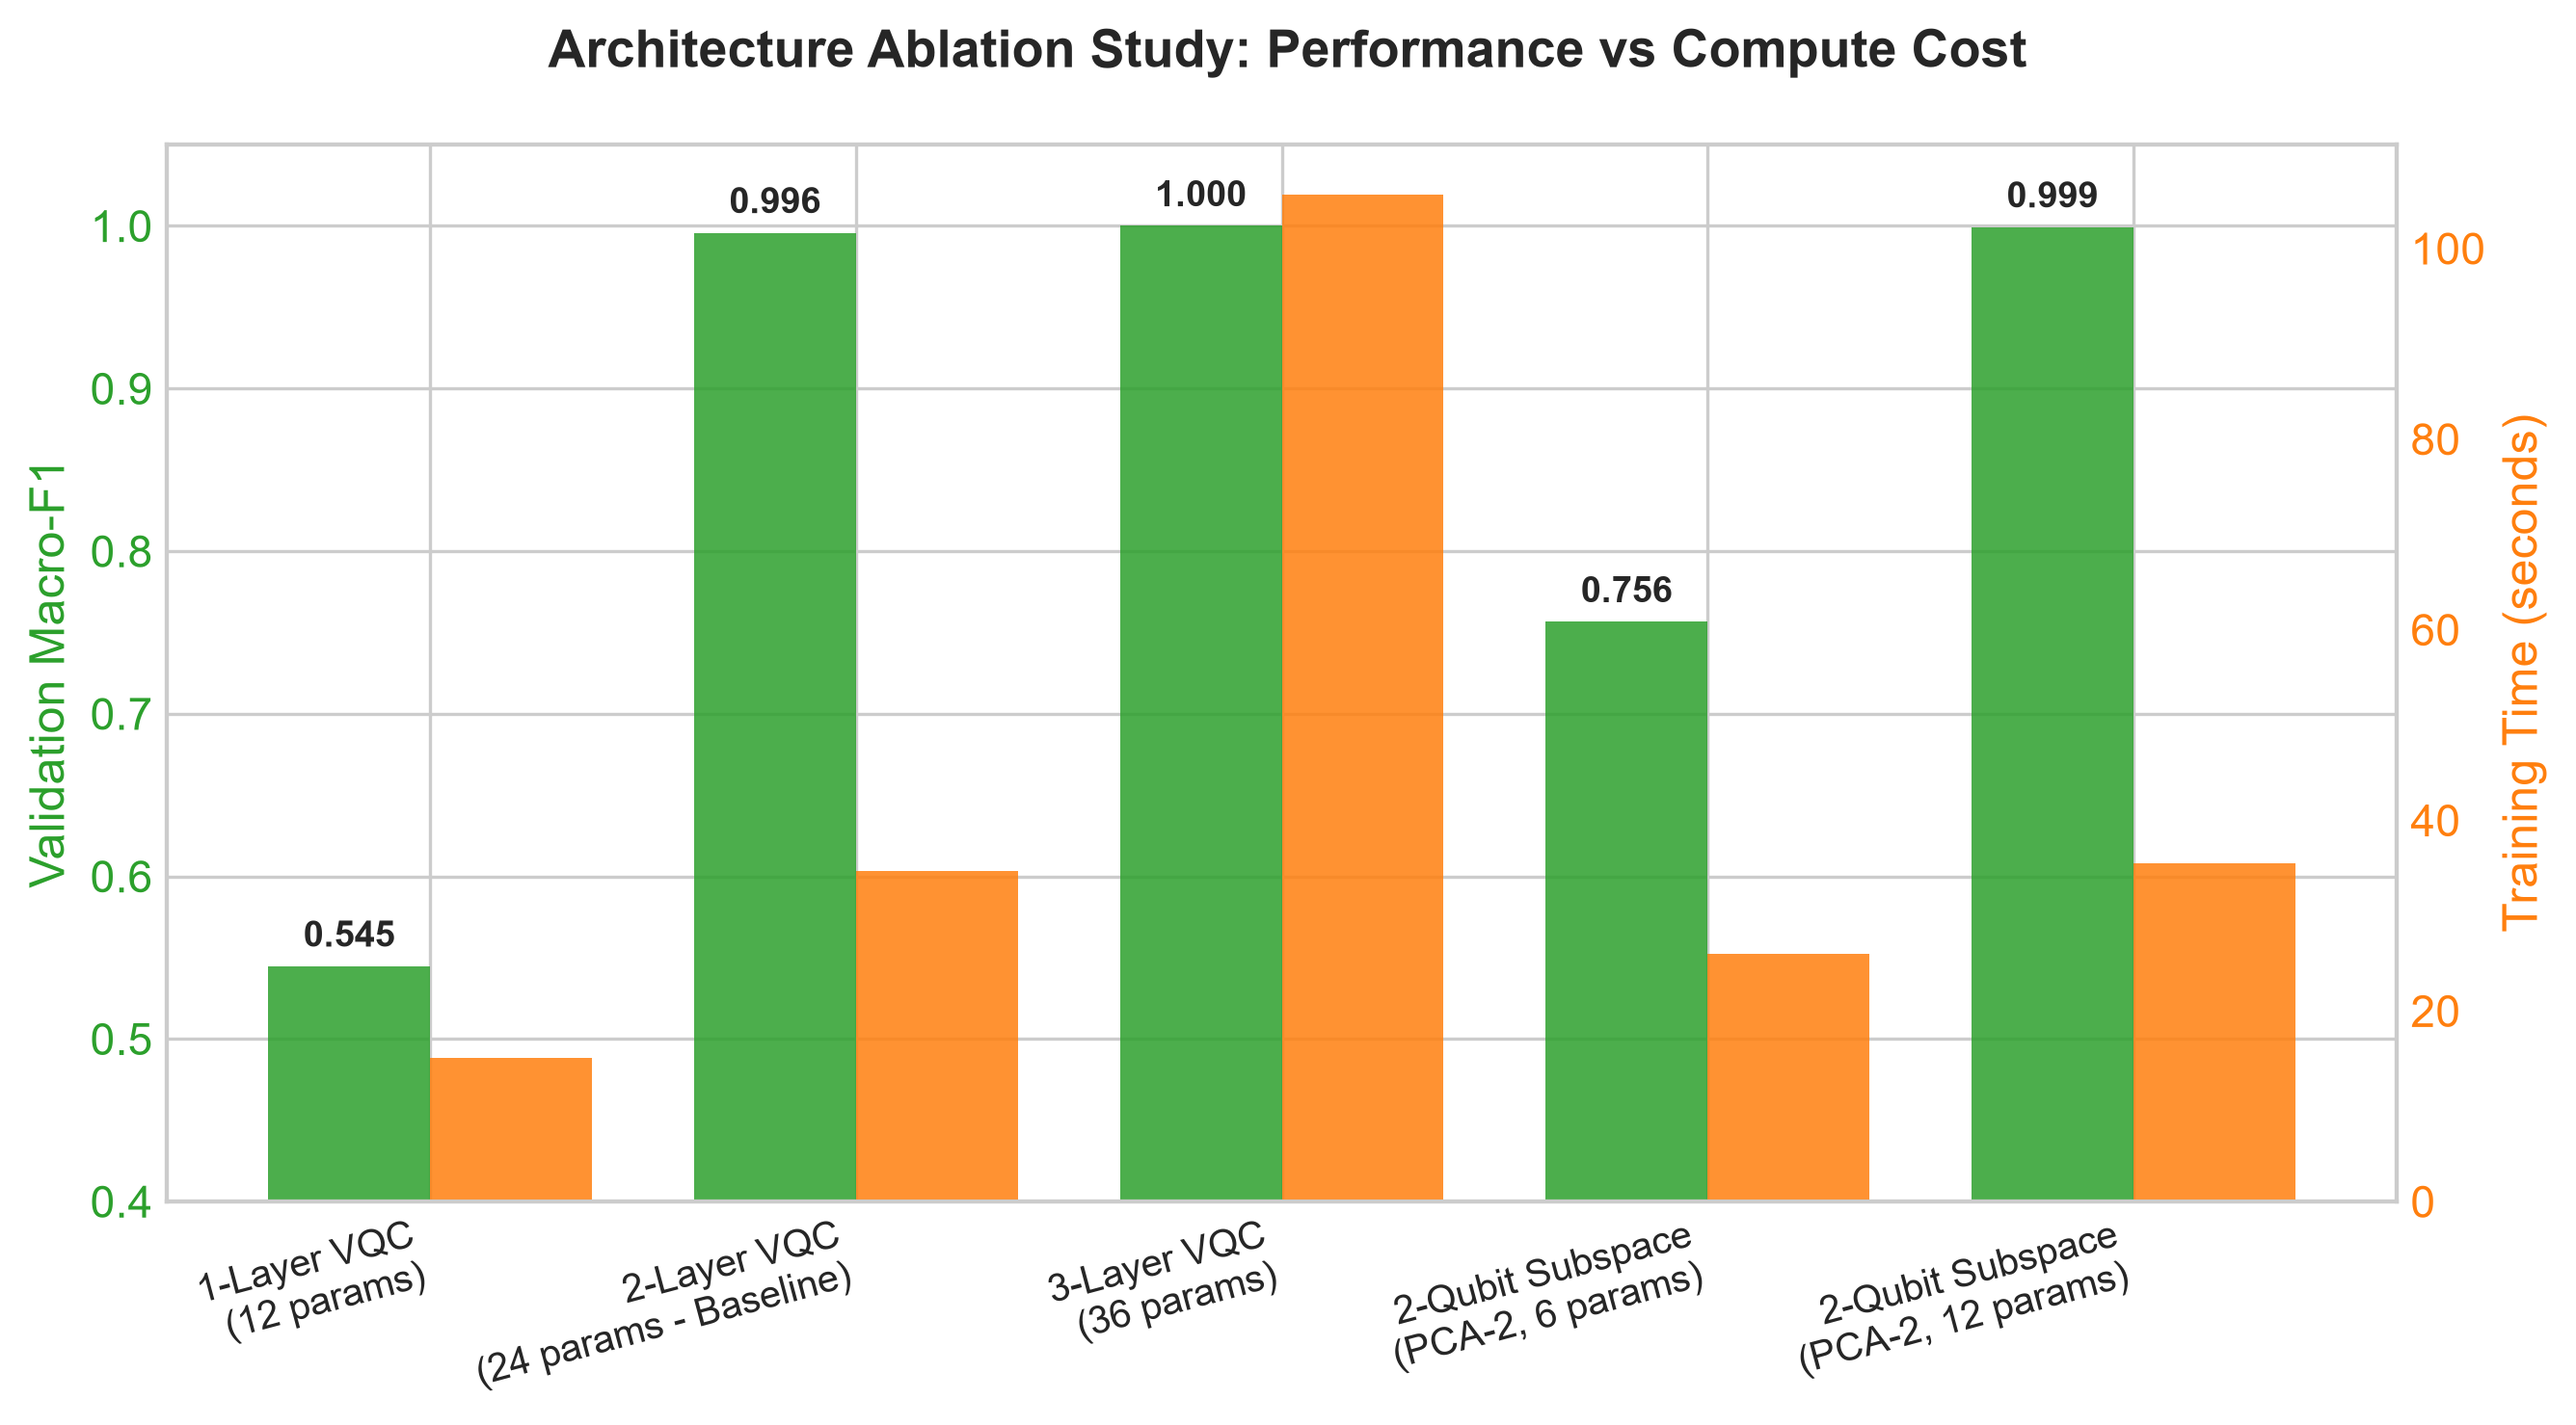
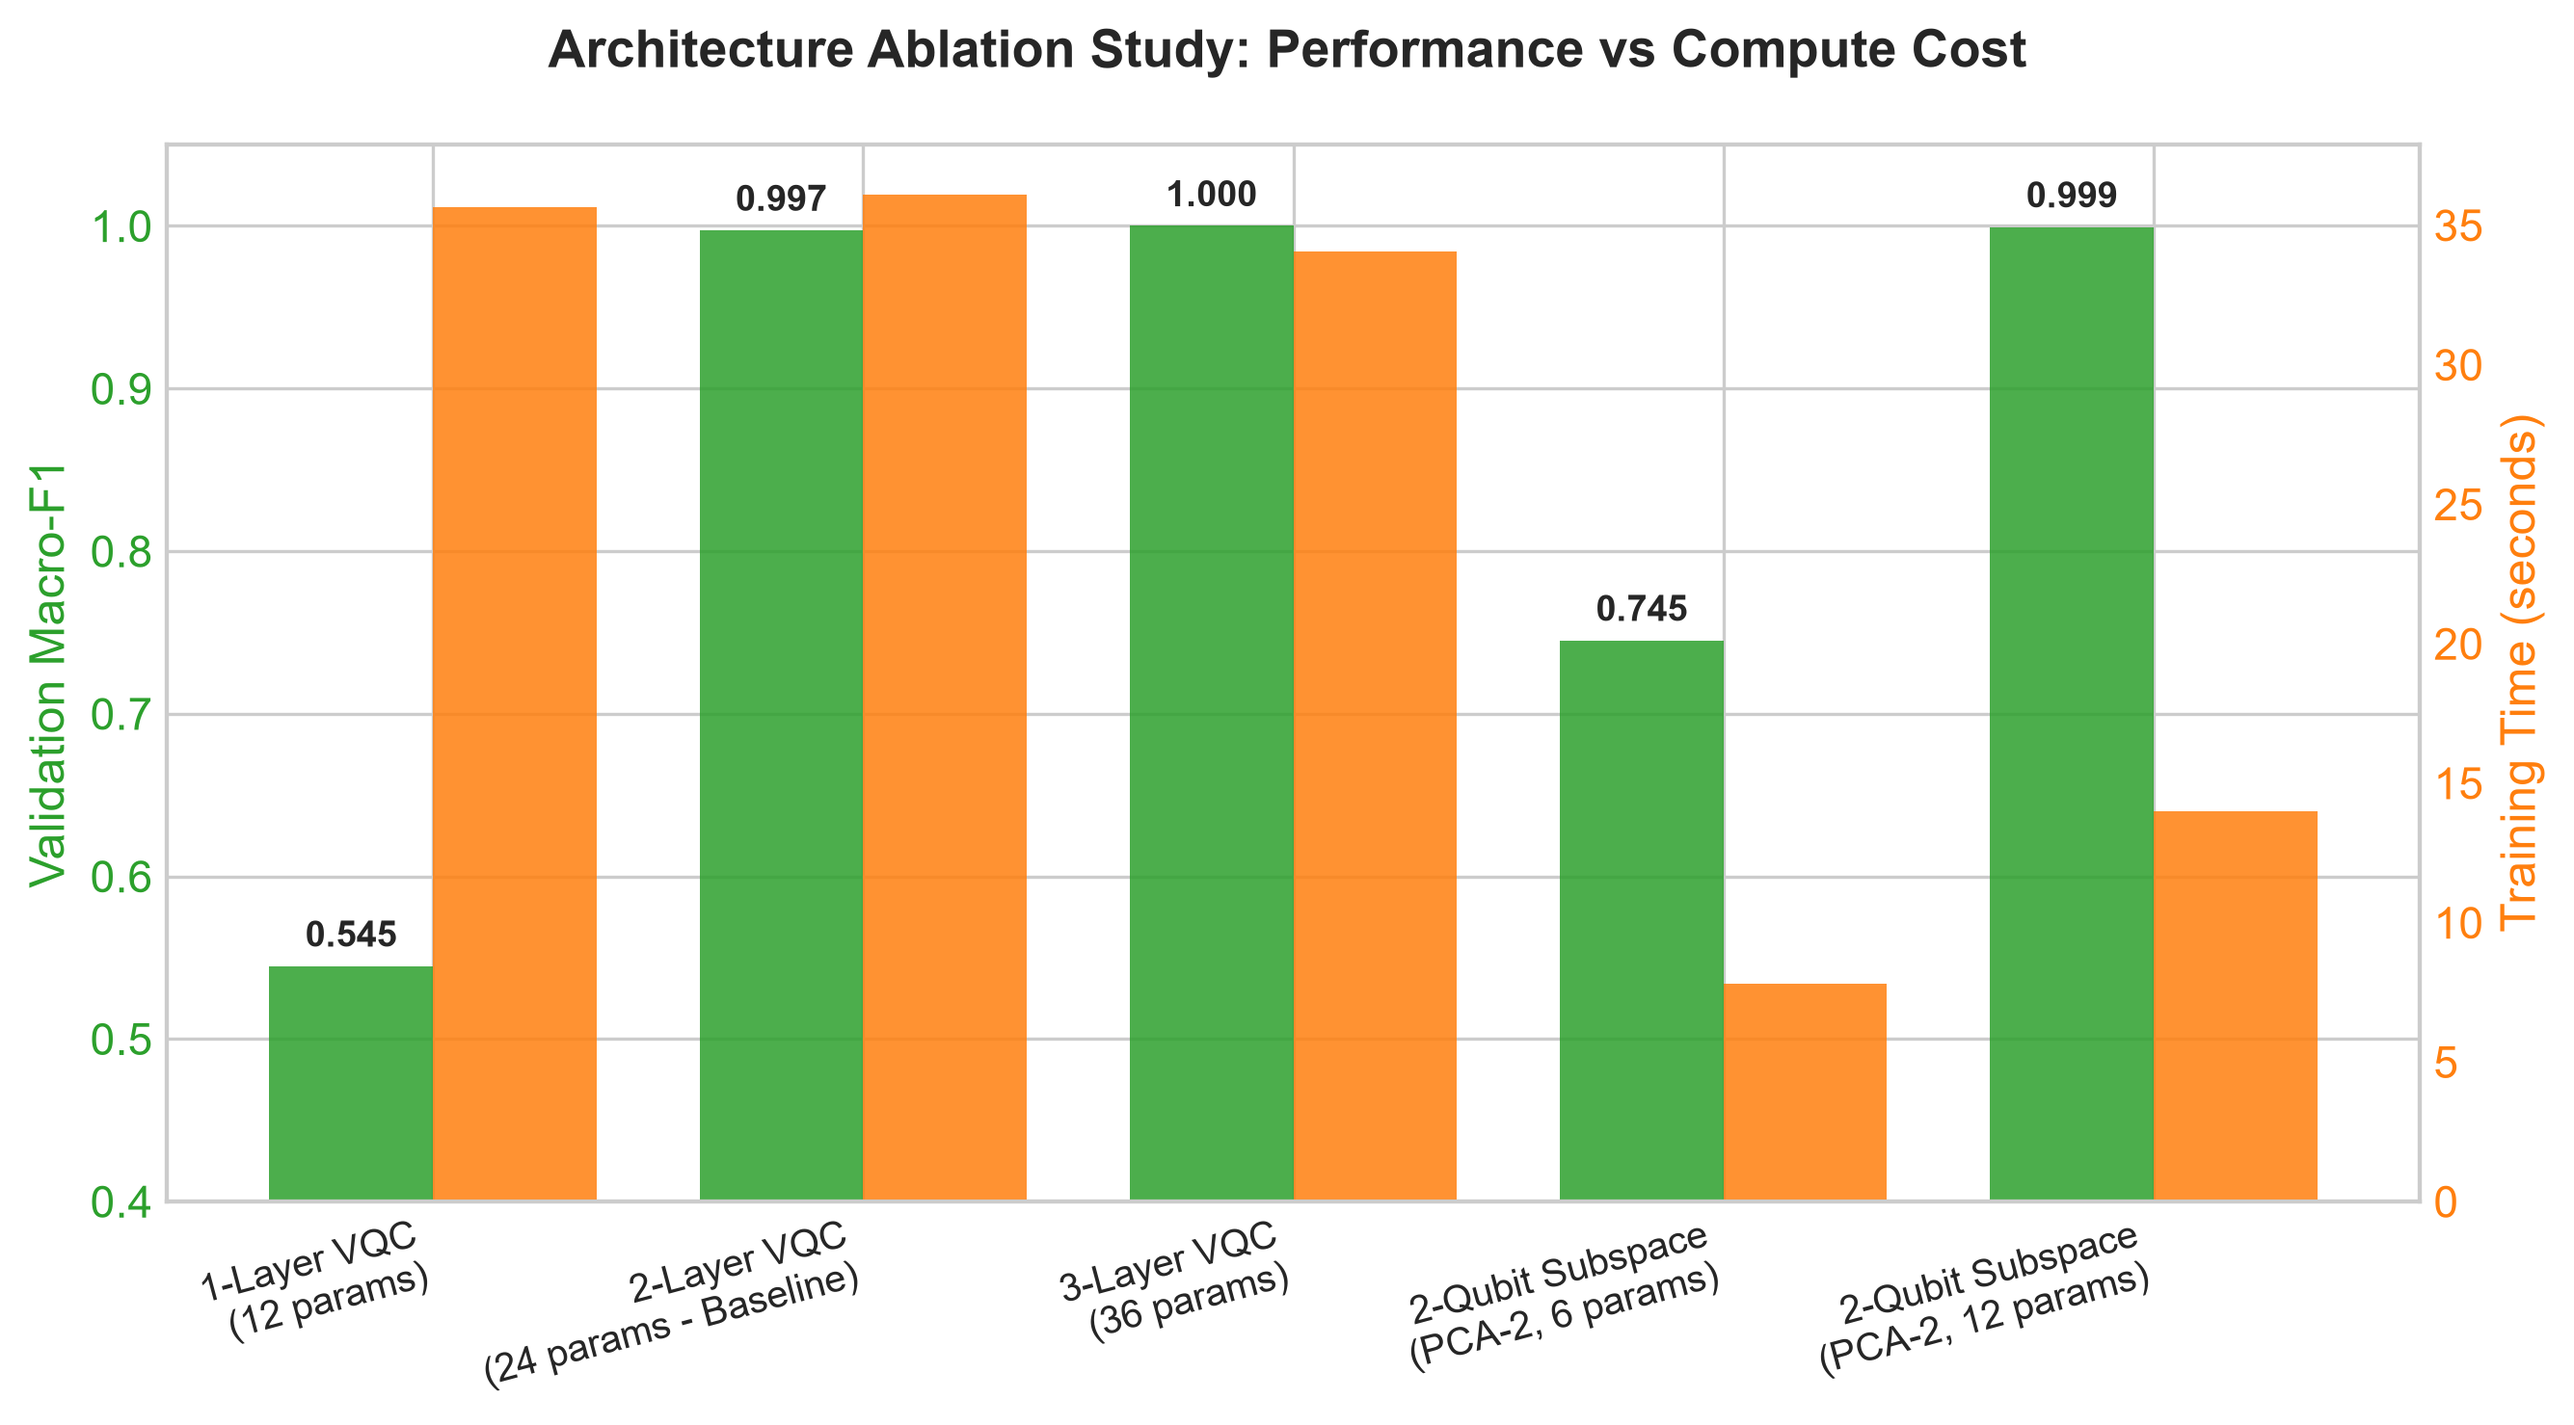
Sync notebook, metrics and report; fix Task B rationale

diff --git a/dashboard/app.py b/dashboard/app.py
@@ -1,0 +1,150 @@
+from pathlib import Path
+import json
+import pandas as pd
+import plotly.express as px
+import streamlit as st
+
+# Run this app from the NEXUS_OPS_PS_Q1 project root.
+ROOT = Path(__file__).resolve().parents[1]
+METRICS_DIR = ROOT / "outputs" / "metrics"
+PREDICTIONS = ROOT / "outputs" / "predictions" / "predictions_q1.csv"
+RESULTS = ROOT / "reports" / "results.md"
+
+st.set_page_config(page_title="NEXUS-OPS | ECG Performance", page_icon="🫀", layout="wide")
+st.title("🫀 NEXUS-OPS | ECG Model Performance")
+st.caption("Qiskit Fall Fest 2026 · QML · PS-Q1: Normal vs Arrhythmia")
+
+with st.sidebar:
+    st.header("Controls")
+    st.caption("Reads saved project artifacts; does not retrain models.")
+    if st.button("Refresh dashboard"):
+        st.cache_data.clear()
+        st.rerun()
+    st.info("Macro-F1 is the primary comparison metric. Test labels are hidden.")
+
+def read_json(filename):
+    path = METRICS_DIR / filename
+    if not path.exists():
+        return None
+    try:
+        return json.loads(path.read_text(encoding="utf-8"))
+    except Exception as exc:
+        st.warning(f"Could not read {filename}: {exc}")
+        return None
+
+def find_metric(obj, names):
+    if isinstance(obj, dict):
+        for name in names:
+            value = obj.get(name)
+            if isinstance(value, (int, float)) and not isinstance(value, bool):
+                return float(value)
+        for value in obj.values():
+            found = find_metric(value, names)
+            if found is not None:
+                return found
+    elif isinstance(obj, list):
+        for value in obj:
+            found = find_metric(value, names)
+            if found is not None:
+                return found
+    return None
+
+def metric(data, keys, fallback):
+    value = find_metric(data, keys) if data else None
+    if value is None:
+        return fallback, "completion-report fallback"
+    if 1 < value <= 100:
+        value /= 100
+    return value, "metrics JSON"
+
+# Fallback values are taken from the team's supplied completion report.
+specs = {
+    "Classical baseline": ("classical_baseline.json", ("macro_f1", "f1_macro", "macro_f1_score"), ("accuracy", "val_accuracy"), 1.0000, 1.0000),
+    "Ideal VQC": ("vqc_4qubit_ideal.json", ("macro_f1", "f1_macro", "macro_f1_score"), ("accuracy", "val_accuracy"), 0.9979, 0.9980),
+    "Noisy VQC": ("vqc_4qubit_noisy.json", ("macro_f1", "f1_macro", "macro_f1_score"), ("accuracy", "val_accuracy"), 0.9965, 0.9967),
+}
+rows = []
+for name, (file, f1keys, acckeys, f1fallback, accfallback) in specs.items():
+    data = read_json(file)
+    f1, f1source = metric(data, f1keys, f1fallback)
+    acc, accsource = metric(data, acckeys, accfallback)
+    rows.append({"Model": name, "Macro-F1": f1, "Accuracy": acc, "Source": f1source if f1source == accsource else f"{f1source}; {accsource}"})
+scores = pd.DataFrame(rows)
+
+st.subheader("Validation performance")
+a, b, c, d = st.columns(4)
+a.metric("Classical Macro-F1", f"{scores.iloc[0]['Macro-F1']:.4f}")
+b.metric("Ideal VQC Macro-F1", f"{scores.iloc[1]['Macro-F1']:.4f}")
+c.metric("Noisy VQC Macro-F1", f"{scores.iloc[2]['Macro-F1']:.4f}")
+d.metric("Noisy VQC accuracy", f"{scores.iloc[2]['Accuracy']:.2%}")
+st.warning("These are validation metrics, not hidden-test accuracy. Test labels are unavailable.")
+
+left, right = st.columns(2)
+with left:
+    fig = px.bar(scores, x="Model", y="Macro-F1", color="Model", text_auto=".4f", range_y=[0, 1.05], title="Macro-F1 comparison")
+    fig.update_layout(showlegend=False, yaxis_title="Macro-F1")
+    st.plotly_chart(fig, use_container_width=True)
+with right:
+    fig = px.bar(scores, x="Model", y="Accuracy", color="Model", text_auto=".4f", range_y=[0, 1.05], title="Validation accuracy")
+    fig.update_layout(showlegend=False, yaxis_title="Accuracy")
+    st.plotly_chart(fig, use_container_width=True)
+
+st.subheader("Metric table")
+st.dataframe(scores.style.format({"Macro-F1": "{:.4f}", "Accuracy": "{:.4f}"}), use_container_width=True, hide_index=True)
+
+st.subheader("Validation confusion matrices")
+st.caption("Counts below are from the supplied completion report.")
+x, y = st.columns(2)
+with x:
+    st.plotly_chart(px.imshow([[899, 0], [3, 598]], text_auto=True, aspect="auto",
+        x=["Predicted Normal", "Predicted Arrhythmia"], y=["Actual Normal", "Actual Arrhythmia"],
+        title="Ideal VQC · 1,500 validation samples", color_continuous_scale="Blues"), use_container_width=True)
+with y:
+    st.plotly_chart(px.imshow([[899, 0], [5, 596]], text_auto=True, aspect="auto",
+        x=["Predicted Normal", "Predicted Arrhythmia"], y=["Actual Normal", "Actual Arrhythmia"],
+        title="Noisy VQC · 1,500 validation samples", color_continuous_scale="Blues"), use_container_width=True)
+
+st.subheader("Noise impact")
+drop = scores.iloc[1]["Macro-F1"] - scores.iloc[2]["Macro-F1"]
+n1, n2, n3 = st.columns(3)
+n1.metric("Ideal VQC Macro-F1", f"{scores.iloc[1]['Macro-F1']:.4f}")
+n2.metric("Noisy VQC Macro-F1", f"{scores.iloc[2]['Macro-F1']:.4f}")
+n3.metric("Macro-F1 decrease", f"{drop:.4f}")
+
+st.subheader("Test prediction file")
+if PREDICTIONS.exists():
+    try:
+        pred = pd.read_csv(PREDICTIONS)
+        if not {"sample_id", "label"}.issubset(pred.columns):
+            st.error("CSV must contain sample_id,label columns.")
+        else:
+            p, q, r = st.columns(3)
+            p.metric("Prediction rows", f"{len(pred):,}")
+            q.metric("Unique sample IDs", f"{pred.sample_id.nunique():,}")
+            r.metric("Labels present", str(sorted(pred.label.dropna().unique().tolist())))
+            ok = len(pred) == 1500 and pred.sample_id.nunique() == 1500 and set(pred.label.dropna().unique()).issubset({0, 1})
+            st.success("Basic CSV structure checks passed.") if ok else st.warning("One or more basic CSV checks failed.")
+            dist = pred.label.value_counts().reindex([0, 1], fill_value=0).rename(index={0: "Normal (0)", 1: "Arrhythmia (1)"}).rename_axis("Predicted class").reset_index(name="Count")
+            l, r = st.columns(2)
+            l.plotly_chart(px.pie(dist, names="Predicted class", values="Count", hole=.4, title="Test prediction distribution"), use_container_width=True)
+            r.dataframe(pred.head(20), use_container_width=True, hide_index=True)
+    except Exception as exc:
+        st.error(f"Unable to read prediction CSV: {exc}")
+else:
+    st.warning(f"Prediction file not found: {PREDICTIONS}")
+
+st.subheader("Task A, Task B and ablation artifacts")
+artifact_names = ["task_a_bell.json", "task_b_processor_d.json", "ablation_study.json", "dataset_audit.json"]
+artifact_status = pd.DataFrame([{"Artifact": f, "Status": "Found" if (METRICS_DIR / f).exists() else "Not found"} for f in artifact_names])
+st.dataframe(artifact_status, use_container_width=True, hide_index=True)
+with st.expander("Reported benchmark reference values"):
+    st.write("Task A Bell fidelity: ideal 1.0000 ± 0.0000; noisy 0.8801 ± 0.0026.")
+    st.write("Task B Processor D QFT-3 fidelity: ideal 1.000000; noisy 0.626784.")
+    st.caption("These reference values are from the supplied project completion report.")
+
+if RESULTS.exists():
+    with st.expander("View reports/results.md"):
+        st.markdown(RESULTS.read_text(encoding="utf-8"))
+
+st.divider()
+st.caption("Competition/research dashboard only. This model is not a clinically validated diagnostic system.")

diff --git a/brag-output/work/test_render.py b/brag-output/work/test_render.py
@@ -171,3 +171,4 @@ if __name__ == "__main__":
     out_path = r"C:\QFF\QFF2026-PHASE2\NEXUS_OPS_PS_Q1\brag-output\work\test_frame.png"
     test_img.save(out_path)
     print(f"Saved test frame to {out_path}")
+

diff --git a/brag-output/work/render_all_scenes.py b/brag-output/work/render_all_scenes.py
@@ -518,3 +518,4 @@ def main():
 
 if __name__ == "__main__":
     main()
+

diff --git a/dashboard/README.md b/dashboard/README.md
@@ -1,0 +1,22 @@
+# NEXUS-OPS Streamlit Dashboard
+
+## Install (from the NEXUS_OPS_PS_Q1 project root)
+
+```powershell
+python -m pip install -r dashboard\requirements-dashboard.txt
+```
+
+## Run
+
+```powershell
+python -m streamlit run dashboard\app.py
+```
+
+Open the local URL Streamlit prints (normally http://localhost:8501).
+
+The app reads `outputs/metrics/*.json`, `outputs/predictions/predictions_q1.csv`,
+and `reports/results.md`. It does not train models or modify submission artifacts.
+
+**Important:** It displays validation metrics. Because test labels are hidden, the
+test prediction CSV can only be checked for structure and class distribution; it
+cannot provide test accuracy.

diff --git a/brag-output/brag-plan.md b/brag-output/brag-plan.md
@@ -71,3 +71,4 @@
   "NEXUS-OPS"  
   "PS-Q1 Submission Ready · 6/6 Tests Passed"
 - **SFX/Audio:** Final musical resolution and high-frequency sparkle.
+
